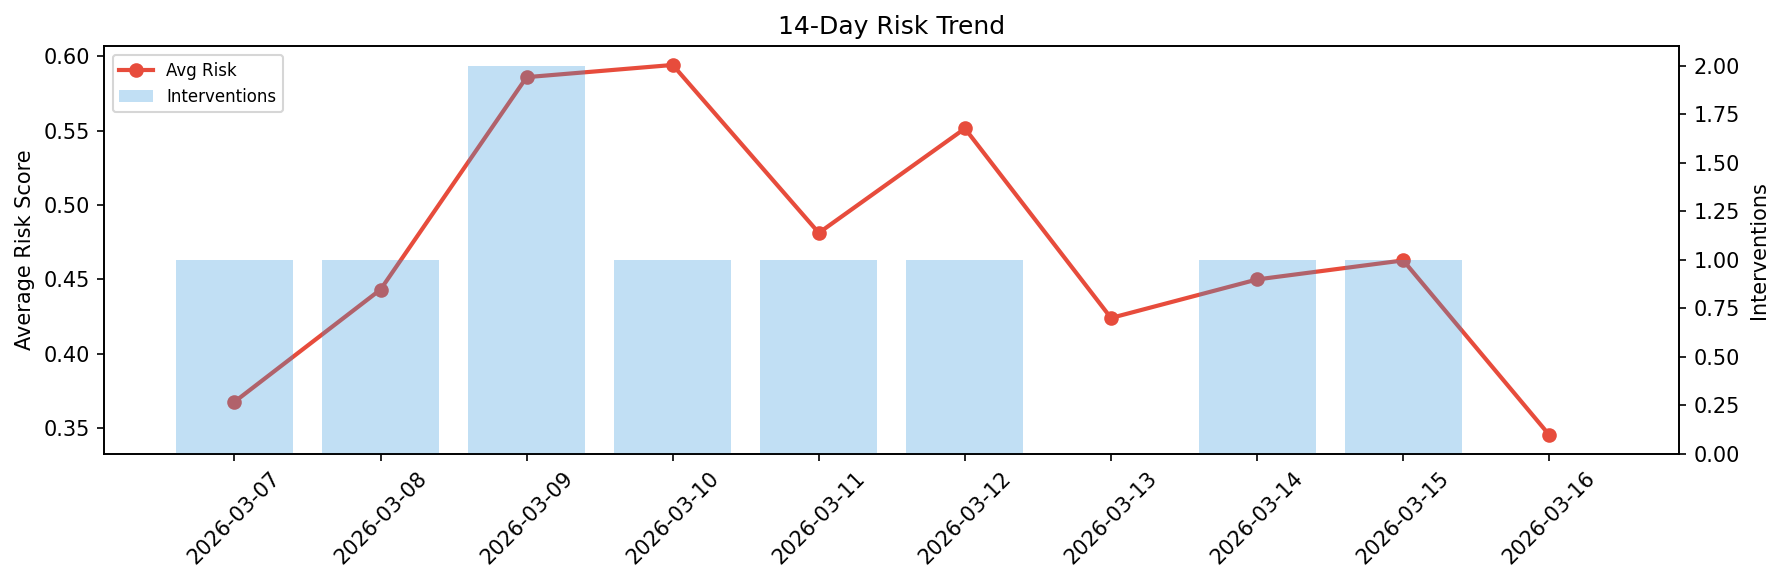
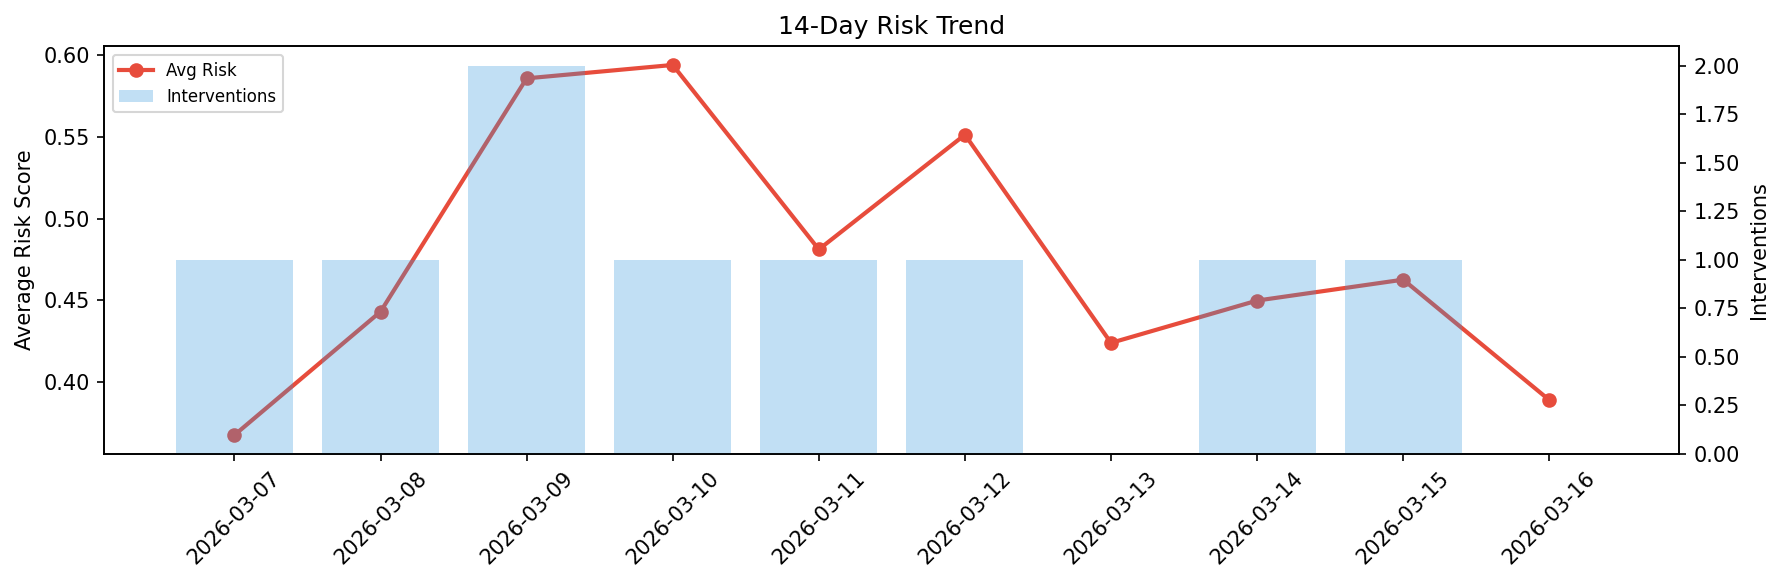
agent-improvement: daily cycle 2026-03-16T20:57

diff --git a/logs/2026-03-16.md b/logs/2026-03-16.md
@@ -1,6 +1,6 @@
 # Agent Improvement Report — 2026-03-16
 
-**Cycle ID:** `1f9dd9ac` | **Avg Risk:** 0.3453 | **Interventions:** 0/4
+**Cycle ID:** `f1edd3a4` | **Avg Risk:** 0.389 | **Interventions:** 0/4
 
 ![Dashboard](2026-03-16_dashboard.png)
 
@@ -10,18 +10,18 @@
 
 | Domain | Risk Score | Decision | Alerts |
 |--------|-----------|----------|--------|
-| code_review | 0.3771 | monitor | none |
-| incident_response | 0.5394 | monitor | blast_radius |
-| data_pipeline | 0.2292 | monitor | none |
-| deployment | 0.2353 | monitor | none |
+| code_review | 0.5092 | monitor | coverage |
+| incident_response | 0.2854 | monitor | none |
+| data_pipeline | 0.3543 | monitor | freshness |
+| deployment | 0.4071 | monitor | none |
 
 ## Delta vs Yesterday
 
 | Domain | Today | Yesterday | Change |
 |--------|-------|-----------|--------|
-| code_review | 0.3771 | 0.5611 | 📉 -32.8% |
-| incident_response | 0.5394 | 0.4452 | 📈 21.2% |
-| data_pipeline | 0.2292 | 0.2173 | 📈 5.5% |
-| deployment | 0.2353 | 0.6274 | 📉 -62.5% |
+| code_review | 0.5092 | 0.5611 | 📉 -9.2% |
+| incident_response | 0.2854 | 0.4452 | 📉 -35.9% |
+| data_pipeline | 0.3543 | 0.2173 | 📈 63.0% |
+| deployment | 0.4071 | 0.6274 | 📉 -35.1% |
 
 **Refinement:** `{'adjustment': 'maintain', 'trend': 'improving', 'window': 4}`
